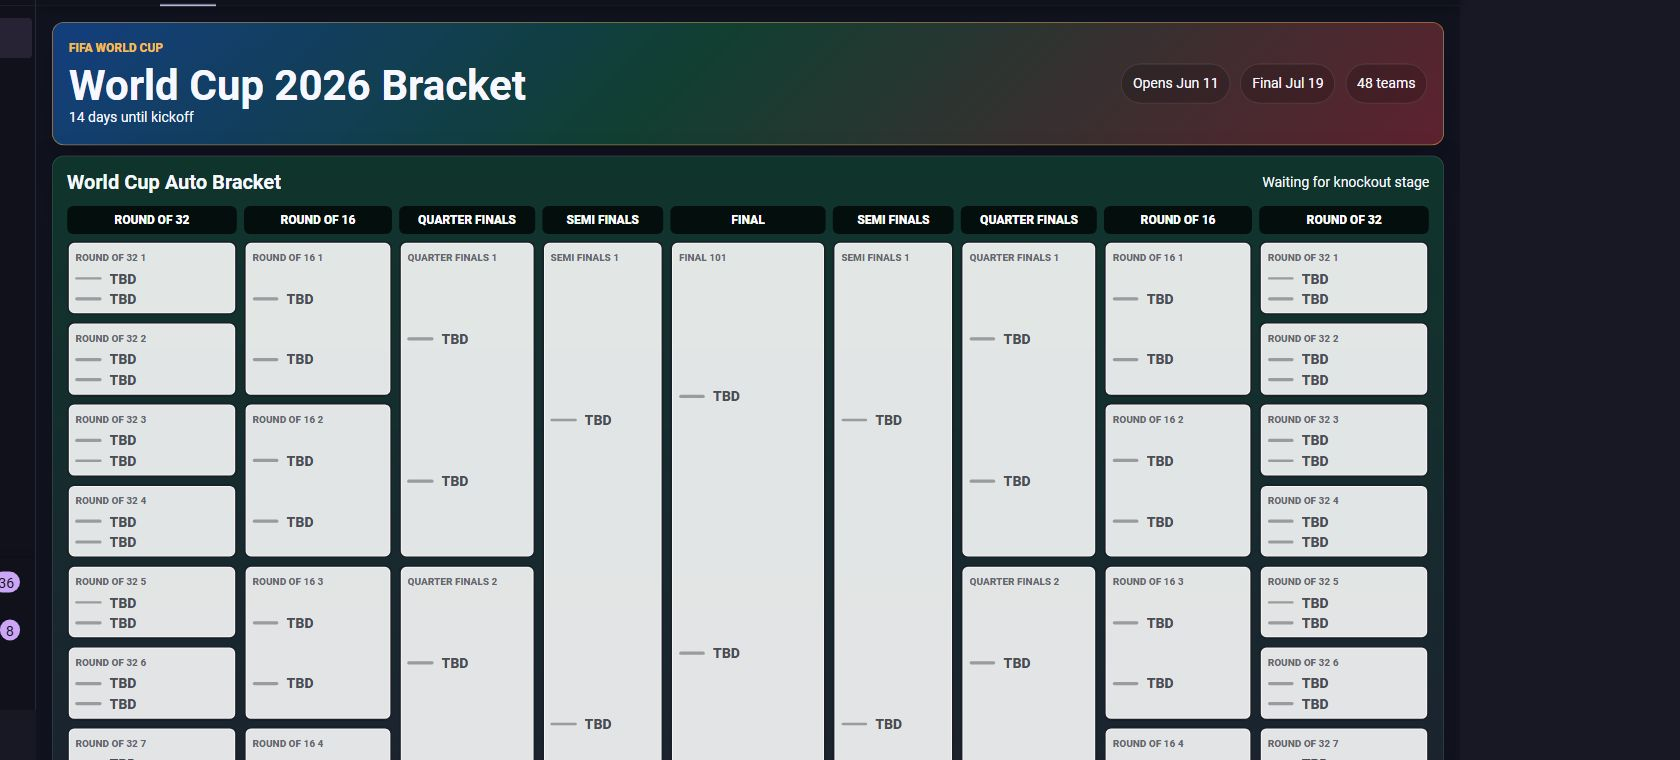
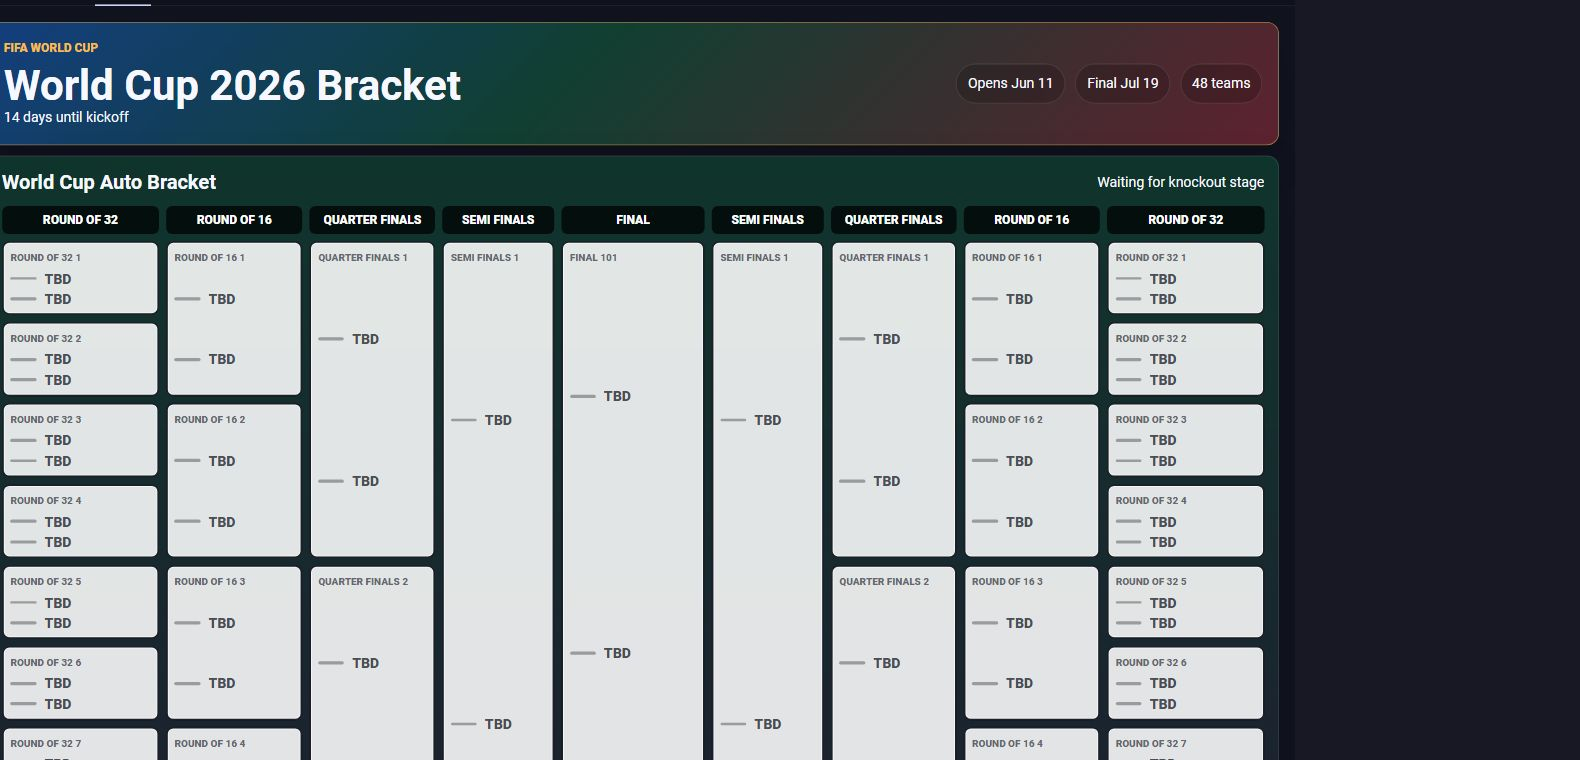
Add focused dashboard screenshot gallery

Changed region(s): [[0.0, 0.0303, 0.8684, 1.0], [0.093, 0.0, 0.1241, 0.0303]]

diff --git a/README.md b/README.md
@@ -6,6 +6,24 @@ A HACS-installable Lovelace card for FIFA World Cup 2026 dashboards. It reads Te
 
 ![World Cup bracket view](docs/images/world-cup-bracket.png)
 
+## More Screenshots
+
+Favorite team and tracked teams:
+
+![Favorite team and tracked teams](docs/images/world-cup-favorite-teams.png)
+
+Alert settings and notification targets:
+
+![Alert settings and notification targets](docs/images/world-cup-alert-settings.png)
+
+Schedule and dashboard status:
+
+![Schedule and dashboard status](docs/images/world-cup-schedule-links.png)
+
+Bracket board:
+
+![Bracket board](docs/images/world-cup-bracket-board.png)
+
 ## What It Does
 
 - Uses your existing TeamTracker sensors.

diff --git a/CHANGELOG.md b/CHANGELOG.md
@@ -9,3 +9,4 @@
 - Tightened the default bracket view into a compact left-to-right tournament board with no extra opening-match cards.
 - Added public screenshots and setup documentation for matching the Catppuccin-themed dashboard.
 - Cleaned up README wording for public documentation.
+- Added focused README screenshots for favorite teams, alert settings, schedule/status, and bracket board.
